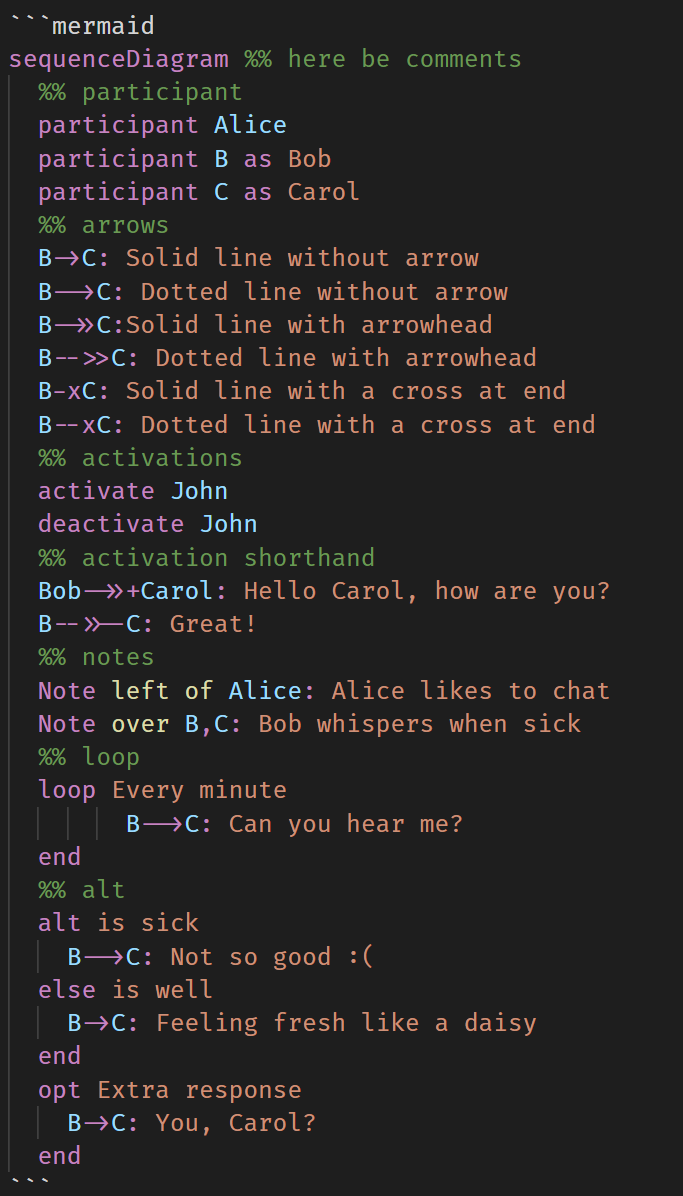
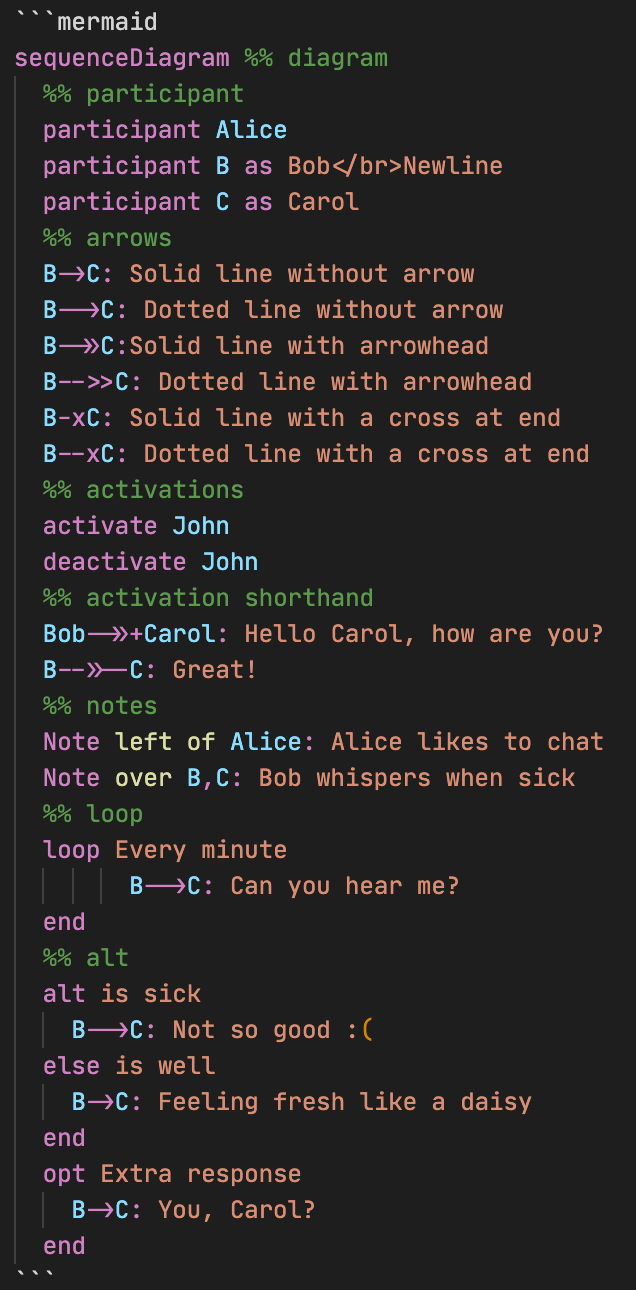
Update readme sequence diagram participant label

Changed region(s): [[0.0, 0.0, 0.956, 0.99], [0.6871, 0.8353, 0.8365, 0.8662], [0.5676, 0.7734, 0.5975, 0.8043]]

diff --git a/README.md b/README.md
@@ -67,7 +67,7 @@ graph TB %% comments
 sequenceDiagram %% diagram
   %% participant
   participant Alice
-  participant B as Bob
+  participant B as Bob</br>Newline
   participant C as Carol
   %% arrows
   B->C: Solid line without arrow
